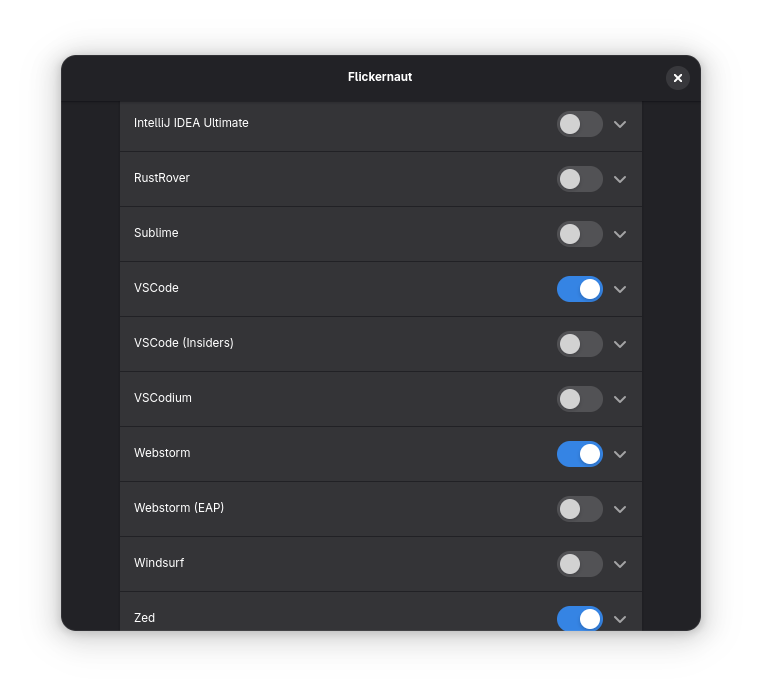
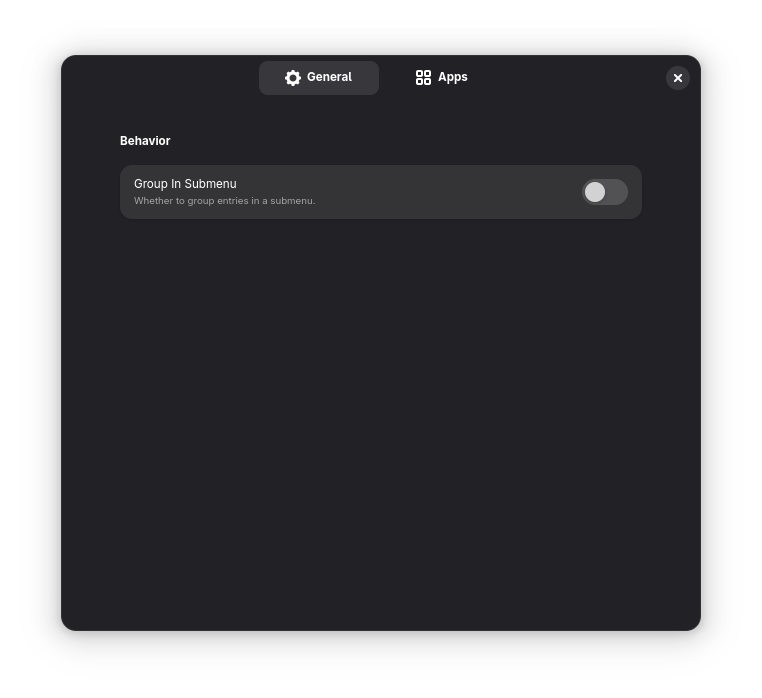
docs: update README and preview images

diff --git a/README.md b/README.md
@@ -4,9 +4,10 @@
 
 A GNOME extension that adds custom entry to Nautilus context menu for your installed dev tools, IDEs, and custom apps.
 
-<p align="center">
-    <img src="assets/preview1.png" alt="Flickernaut Preview" width="50%" />
-</p>
+<div style="display: flex; flex-wrap: wrap; justify-content: space-between;">
+    <img src="assets/preview1.png" alt="Flickernaut Preview" style="max-width: 50%;" />
+    <img src="assets/preview2.png" alt="Flickernaut Preview" style="max-width: 50%;" />
+</div>
 
 ## Participate
 
